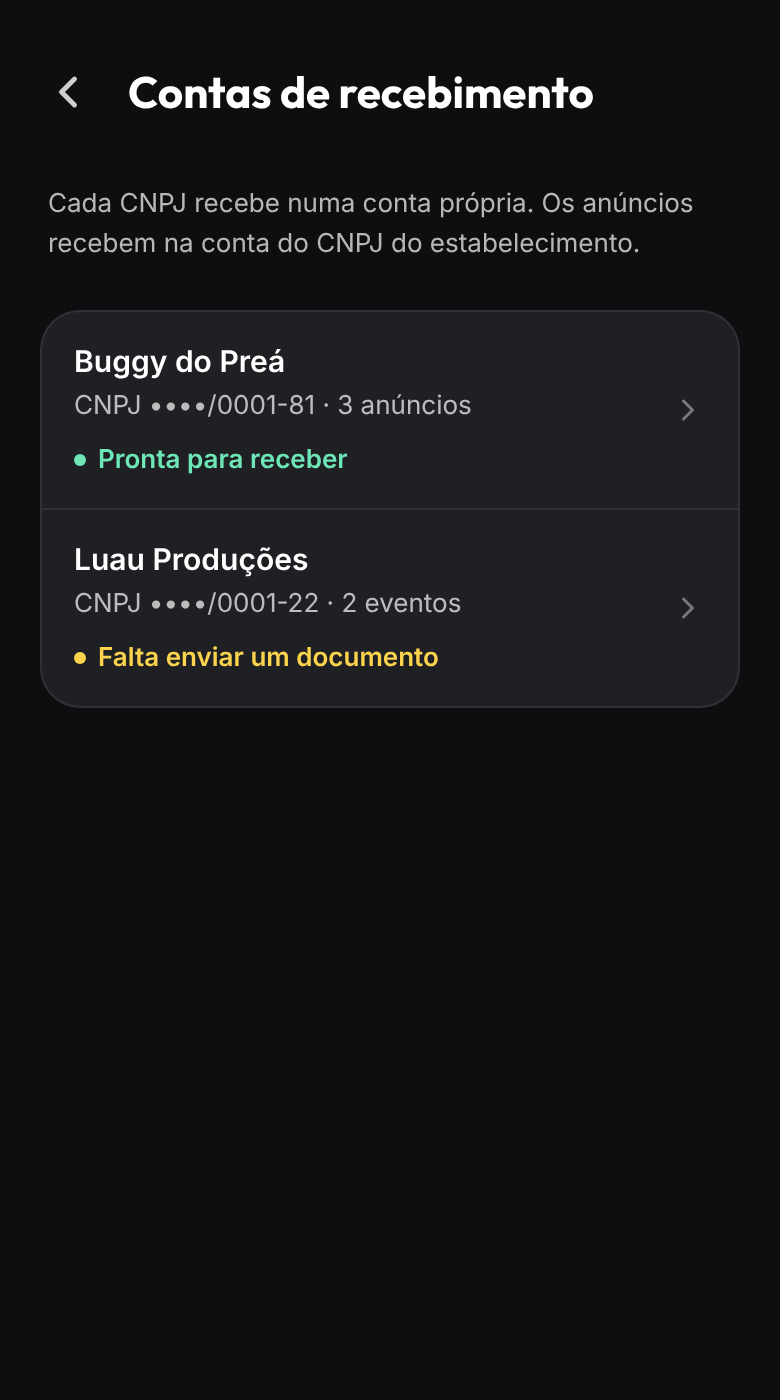
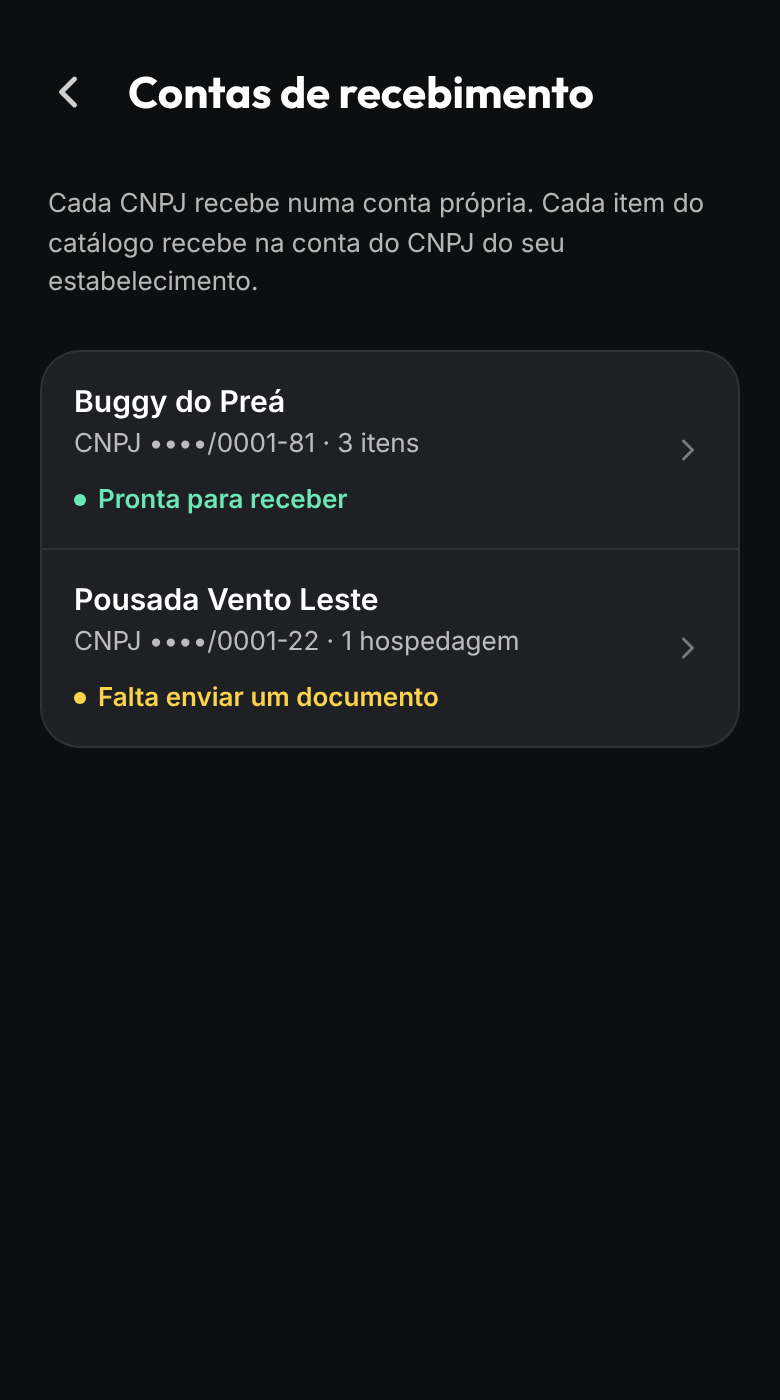
Painel do parceiro: aba Catálogo e troca de estabelecimento pelo nome no topo
Claude-Session: https://claude.ai/code/session_01B4DS9rUAeoBCKcvRgBPDfP

Changed region(s): [[0.0923, 0.2457, 0.6462, 0.5221], [0.0615, 0.1229, 0.8923, 0.215]]

diff --git a/docs/arquitetura/propostas/painel-parceiro-convidados-divulgadores.md b/docs/arquitetura/propostas/painel-parceiro-convidados-divulgadores.md
@@ -1,7 +1,7 @@
 # Proposta — Painel do parceiro, lista de convidados e divulgadores (2026-11-03)
 
 Status: **em aberto** (decisões de 2026-11-04 na seção 6; aguarda aprovação dos desenhos e das seções 7 a 9).
-Desenhos: `docs/arquitetura/propostas/painel-parceiro/` (p01 a p35, índice na seção 11; verde da D26).
+Desenhos: `docs/arquitetura/propostas/painel-parceiro/` (p01 a p36, índice na seção 11; verde da D26).
 
 ## 1. Referências
 
@@ -28,7 +28,7 @@ Barra inferior com cinco abas, como o app do anfitrião do Airbnb:
 
 1. **Início** — "Resolva agora" (prazos: ausência em 2 h, reclamação, força maior, verificação, plano), **Hoje** (horários de reserva e sessões do dia, com atalho para a portaria) e dois números: vendas de hoje e próximo repasse.
 2. **Agenda** — calendário com horários de reserva e sessões de evento; remarcar, cancelar e portaria saem daqui.
-3. **Anúncios** — estabelecimentos, eventos, passeios, aluguéis e translados (editor atual).
+3. **Catálogo** — estabelecimentos, eventos, passeios, aluguéis e translados (editor atual).
 4. **Ganhos** — Recebimentos, extrato, dívidas e relatórios/métricas.
 5. **Mais** — perfil do produtor, documentos e verificação, planos e selo, contas de recebimento, notificações e ajuda.
 
@@ -57,7 +57,7 @@ Cada evento abre uma página própria com abas **Vendas · Convidados · Divulga
 
 ## 6. Respostas do responsável do produto (2026-11-04) e o que mudou
 
-1. **Painel:** sem barra inferior. Atalhos em **quadrados levemente arredondados com ícone e nome dentro**, logo abaixo da saudação (referência: a linha de atalhos do app Telefone do iPhone): Agenda, Anúncios, Ganhos e Mais. A tela Início continua com "Resolva agora", "Hoje" e os números (p01, p02).
+1. **Painel:** sem barra inferior. Atalhos em **quadrados levemente arredondados com ícone e nome dentro**, logo abaixo da saudação (referência: a linha de atalhos do app Telefone do iPhone): Agenda, Catálogo, Ganhos e Mais. A tela Início continua com "Resolva agora", "Hoje" e os números (p01, p02).
 2. **Divulgador:** opção **A** — o parceiro paga direto; o Use Guide calcula e mostra.
 3. **Cortesias:** **sem limite por evento**, **uma por pessoa**. Proteções contra usar a cortesia para tirar a venda da plataforma (seção 7).
 4. **Cortesia intransferível:** sim.
@@ -68,7 +68,7 @@ Cada evento abre uma página própria com abas **Vendas · Convidados · Divulga
 
 ### 6.1. Início com cartões personalizáveis (pedido de 2026-11-04; p01 a p04)
 
-- **Cinco atalhos no topo**, em quadrados levemente arredondados com ícone e nome: Início (marcado), Agenda, Anúncios, Ganhos e Mais.
+- **Cinco atalhos no topo**, em quadrados levemente arredondados com ícone e nome: Início (marcado), Agenda, Catálogo, Ganhos e Mais.
 - **"Resolva agora" fixo no topo**, fora da personalização (prazos não podem sumir).
 - Abaixo, **cartões em grade de duas colunas**, pequenos (meia largura) ou grandes (largura inteira). Tocar num cartão abre a aba certa (Hoje → Agenda, Vendas e repasse → Ganhos, evento → página do evento, Avaliações → avaliações).
 - **"Personalizar início"** abre o modo de edição: arrastar para mudar a ordem, "−" para tirar e "Adicionar cartão" para escolher numa galeria com descrição e tamanho; "Concluir" salva.
@@ -116,7 +116,7 @@ Hoje a edição junta conteúdo e operação (lotes, vendas, participantes, chec
 
 ## 11. Índice dos desenhos (revisão de conteúdo, 2026-11-04)
 
-Atalhos do topo: Início, Agenda, Anúncios, Ganhos e Mais. "Precisa de você" passou a se chamar "Resolva agora" (aprovado em 2026-11-04, D27).
+Atalhos do topo: Início, Agenda, Catálogo, Ganhos e Mais (a aba "Anúncios" passou a se chamar "Catálogo" em 2026-11-04, para não confundir com os anúncios patrocinados que virão). "Precisa de você" passou a se chamar "Resolva agora" (aprovado em 2026-11-04, D27).
 
 | Nº | Aba | Tela ou folha | Função |
 |---|---|---|---|
@@ -128,17 +128,17 @@ Atalhos do topo: Início, Agenda, Anúncios, Ganhos e Mais. "Precisa de você" p
 | p06 | Agenda | Folha do horário de reserva | participantes, quem chegou, confirmar chegada com código, mudar ou cancelar horário |
 | p07 | Agenda | Folha da sessão de evento | vendidos, convidados, entradas, abrir portaria, adiar ou cancelar |
 | p08 | Agenda | Folha Cancelar a sessão? | reembolso, multa de 20% e pedido de análise de força maior |
-| p09 | Anúncios | Anúncios | Lugares, Eventos e Passeios, com status |
-| p10 | Anúncios | Página do evento | resumo e entradas para vendas, convidados, divulgadores e edição |
-| p11 | Anúncios | Evento · Vendas | vendido, a receber, sessões e pedidos |
-| p12 | Anúncios | Folha do pedido | detalhe do pedido e situação do reembolso |
-| p13 | Anúncios | Evento · Convidados | lista de cortesias por sessão |
-| p14 | Anúncios | Folha Convidar | convite pelo @ ou por link pessoal; "O ingresso vai direto para a carteira da pessoa convidada, sem custos." |
-| p15 | Anúncios | Folha Link de convite criado | link de uso único, enviar pelo WhatsApp |
-| p16 | Anúncios | Evento · Divulgadores | divulgadores, vendas por link e valor devido |
-| p17 | Anúncios | Folha Adicionar divulgador | comissão, valor por ingresso ou cachê fixo |
-| p18 | Anúncios | Editar evento | só o que é cadastro: dados, sessões, ingressos, política |
-| p19 | Anúncios | Página do estabelecimento | status, plano, números, ofertas e avaliações |
+| p09 | Catálogo | Catálogo | Lugares, Eventos e Passeios, com status |
+| p10 | Catálogo | Página do evento | resumo e entradas para vendas, convidados, divulgadores e edição |
+| p11 | Catálogo | Evento · Vendas | vendido, a receber, sessões e pedidos |
+| p12 | Catálogo | Folha do pedido | detalhe do pedido e situação do reembolso |
+| p13 | Catálogo | Evento · Convidados | lista de cortesias por sessão |
+| p14 | Catálogo | Folha Convidar | convite pelo @ ou por link pessoal; "O ingresso vai direto para a carteira da pessoa convidada, sem custos." |
+| p15 | Catálogo | Folha Link de convite criado | link de uso único, enviar pelo WhatsApp |
+| p16 | Catálogo | Evento · Divulgadores | divulgadores, vendas por link e valor devido |
+| p17 | Catálogo | Folha Adicionar divulgador | comissão, valor por ingresso ou cachê fixo |
+| p18 | Catálogo | Editar evento | só o que é cadastro: dados, sessões, ingressos, política |
+| p19 | Catálogo | Página do estabelecimento | status, plano, números, ofertas e avaliações |
 | p20 | Ganhos | Ganhos | a receber, recebido, Repasses, Extrato e Dívidas |
 | p21 | Ganhos | Folha do repasse | vendido, taxa, valor líquido e serviços incluídos |
 | p22 | Ganhos | Contas de recebimento | uma conta por CNPJ e sua situação |
@@ -161,4 +161,14 @@ Atalhos do topo: Início, Agenda, Anúncios, Ganhos e Mais. "Precisa de você" p
 A portaria (D21, já implementada) entra por três caminhos: o cartão "Portaria" no topo do Início no dia (p29), a sessão na Agenda (p07 → p30) e a página do evento ou da atração. Vale para eventos e para entradas de atrações privadas; reservas de passeio, aluguel e translado usam a confirmação de chegada do horário (p06).
 
 **Pendência (a desenhar):** o parceiro escolher outros aparelhos (equipe) para usar o modo portaria durante o evento ou a atração. Modelo e proposta ainda serão feitos; até lá, o item "Equipe da portaria" em Mais (p24) não entra na implementação.
+
+| p36 | Início | Folha Seus estabelecimentos | tocar no nome do estabelecimento no topo do Início troca o estabelecimento ativo ou cria um novo, como a troca de conta do Instagram |
+
+### 11.2. Troca de estabelecimento (pedido de 2026-11-04, aguardando aprovação)
+
+* Não há nome para o painel: o topo do Início mostra o nome do estabelecimento ativo com uma seta; o toque abre a folha p36.
+* O painel mostra um estabelecimento por vez: Início, Agenda, Catálogo e Ganhos (repasses do CNPJ dele) passam a ser do escolhido. Mais continua sendo da conta (perfil de produtor, documentos, contas de recebimento de todos os CNPJs, planos, notificações).
+* Outro estabelecimento com item em "Resolva agora" aparece com um ponto vermelho ao lado do nome e o número na folha.
+* O estabelecimento ativo fica guardado no aparelho (preferência local, não é dado do servidor); na primeira vez, é o primeiro estabelecimento.
+* "Criar estabelecimento" abre o cadastro que já existe.
 

diff --git a/docs/arquitetura/decisoes.md b/docs/arquitetura/decisoes.md
@@ -390,5 +390,7 @@ Aprovada pelo responsável do produto em 2026-11-04. Proposta e desenhos: `docs/
 * **Link pessoal de convite** para quem não tem conta: uso único, vale até o início do evento, enviado pelo parceiro (seção 8).
 * **Editar evento x página do evento:** divisão da seção 9 aprovada (a edição fica só com o cadastro; vendas, convidados, divulgadores, portaria e financeiro saem para a página do evento, a Agenda e Ganhos).
 * **Texto da folha Convidar:** "O ingresso vai direto para a carteira da pessoa convidada, sem custos."
-* **Em aberto (não implementar até decidir):** nome da aba "Anúncios" (conflita com os anúncios patrocinados que virão); nome do "painel do parceiro"; contatos nos anúncios (B37); escolha de outros aparelhos para o modo portaria (a desenhar).
+* **Aba "Catálogo"** no lugar de "Anúncios", para não confundir com os anúncios patrocinados que virão.
+* **Sem nome de painel:** o topo do Início mostra o nome do estabelecimento ativo; o toque abre a troca de estabelecimento, como no Instagram (desenho p36, seção 11.2 da proposta, aguardando aprovação do escopo).
+* **Em aberto (não implementar até decidir):** contatos nos anúncios (B37); escolha de outros aparelhos para o modo portaria (a desenhar).
 * **Depois da implementação:** relatório das funções e configurações que ficaram fora das telas e folhas, e tour na primeira abertura do painel, com sequência e opção de não mostrar de novo.
